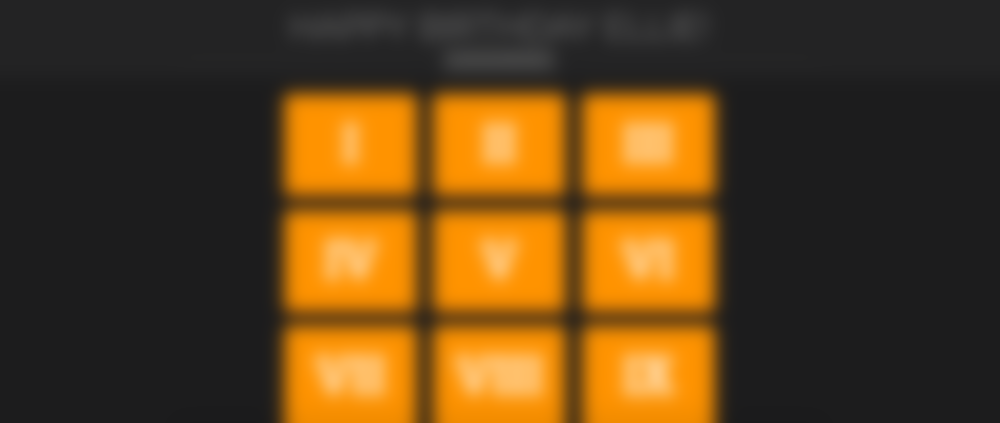
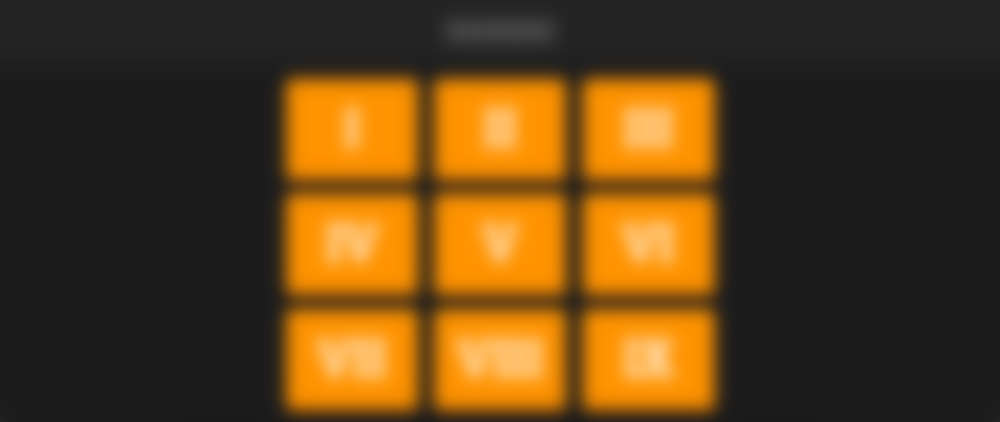
v1.1.27 - minor changes
- updated blur.png for new header-less design
- moved js.cookie.js reference down in the code
- added types to custom scripts
- removed parentheses from checkAuth function calls
- changed body background to #1c1c1d

Changed region(s): [[0.248, 0.3389, 0.744, 1.0], [0.279, 0.1232, 0.744, 0.3081]]

diff --git a/ellie.html b/ellie.html
@@ -52,11 +52,12 @@ var STYLE_PREFIX = 'wsite';
 //-->
 </script>
 <script src='https://ajax.googleapis.com/ajax/libs/jquery/1.8.3/jquery.min.js'></script>
-<script src="./files/js.cookie.js"></script>
 <script type="text/javascript" src="http://cdn2.editmysite.com/js/lang/en/stl.js?buildTime=1234&"></script>
 <script src="http://cdn2.editmysite.com/js/site/main.js?buildTime=1234"></script><script type='text/javascript' src='http://cdn2.editmysite.com/js/old/slideshow-jq.js?buildTime=1234'></script>
 <script type="text/javascript">_W.configDomain = "www.weebly.com";</script><script>_W.relinquish && _W.relinquish()</script>
-<script type="text/javascript" src="http://cdn2.editmysite.com/js/lang/en/stl.js?buildTime=1234&"></script><script> _W.themePlugins = [];</script><script type="text/javascript"><!--
+<script type="text/javascript" src="http://cdn2.editmysite.com/js/lang/en/stl.js?buildTime=1234&"></script><script> _W.themePlugins = [];</script>
+<script src="files/js.cookie.js"></script>
+<script type="text/javascript"><!--
 	var IS_ARCHIVE = 1;
 	
 	(function(jQuery){
@@ -81,11 +82,9 @@ var STYLE_PREFIX = 'wsite';
 //-->
 </script>	
 
-<script>
+<script type="text/javascript">
 
 	function checkAuth() {
-
-		var body-wrap = document.getElementsByClassName('body-wrap');
 
 		console.log(Cookies.get('auth'));
 
@@ -106,7 +105,7 @@ var STYLE_PREFIX = 'wsite';
 
 </script>
 
-<script>
+<script type="text/javascript">
 	function login() {
 
 		var user = $('#user');
@@ -115,7 +114,7 @@ var STYLE_PREFIX = 'wsite';
 		if (user == 'agile' && pass == 'olive') {
 
 			Cookies.set('auth', 'true', 7);
-			checkAuth();
+			checkAuth;
 		}
 	}
 
@@ -123,7 +122,7 @@ var STYLE_PREFIX = 'wsite';
 
 	</head>
 	
-	<body class="header-page  wsite-page-index  full-width-on  wsite-theme-dark" onload="checkAuth();">
+	<body class="header-page  wsite-page-index  full-width-on  wsite-theme-dark" onload="checkAuth;">
 
 <div class="modal fade">
   <div class="modal-dialog" role="document">

diff --git a/files/main_style.css b/files/main_style.css
@@ -3,7 +3,7 @@ ul, ol, li, h1, h2, h3, h4, h5, h6, pre, form, body, html, p, blockquote, fields
  a img { border: 0; }
  a { text-decoration: none; }
  html { height: 100%; }
- body { font-family: 'Raleway', sans-serif; font-size: 15px; font-weight: 500; color: #777777; min-height: 100%; background: #292929; -webkit-font-smoothing: antialiased; -moz-osx-font-smoothing: grayscale; }
+ body { font-family: 'Raleway', sans-serif; font-size: 15px; font-weight: 500; color: #777777; min-height: 100%; background: #1c1c1d; -webkit-font-smoothing: antialiased; -moz-osx-font-smoothing: grayscale; }
  .body-wrap { background-color: #232324; }
  .navFixed { left:2%; height:70px; z-index:150; padding-top:0px; padding-left:30px; padding-bottom: 0px; background-color: #1c1c1d; font-family: 'Raleway', sans-serif; font-size: 20px; font-weight: 200; }
  .navFixed-scrolled { position:fixed; top:0px; left:0%; }
@@ -330,10 +330,6 @@ div.paragraph ol, div.paragraph ol li { list-style: decimal outside !important; 
 #q7 { margin-top: 25px; margin-left: 125px; }
 #q8 { margin-top: -150px; margin-left: 350px; }
 #q9 { margin-top: -150px; margin-left: 575px; }
-
-/*#overlay { position: fixed; top: 0; left: 0; width: 100%; height: 100%; background-image: url("./blur.png"); background-size: cover; z-index: 100; }*/
-.body-wrap { display: inherit; }
-/*#login { position: fixed; top:25%; left: 25%; padding: 50px; border-radius: 10px; background-color: white; }*/
 
 .modal {
    background-image: url("./blur.png");
